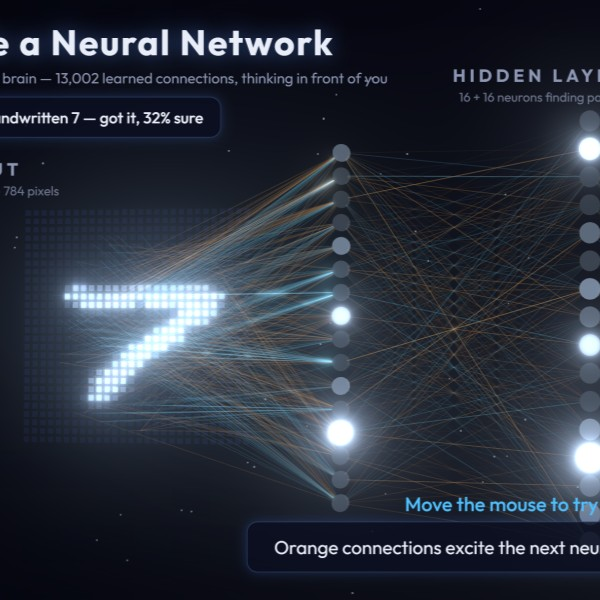
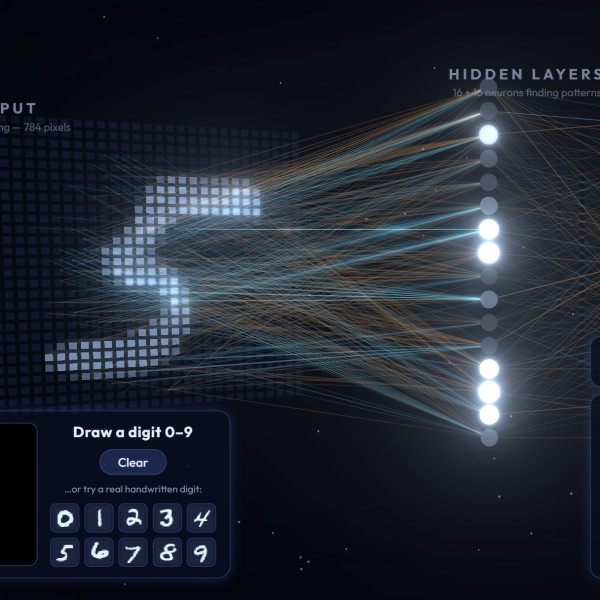
Wall-comfort pass: calmer brightness, smaller HUD, more breathing room
Peak luminance reduced across every emitter (bloom 0.85->0.55 with
higher threshold, neuron/pulse/flare/glyph/input-plane intensities all
lowered) so nothing blinds on the 2736px wall while color contrast and
motion stay. HUD typography and panels shrunk (~20%), interactive
camera pulled back, packaging art regenerated from the new look.

diff --git a/src/index.css b/src/index.css
@@ -100,25 +100,25 @@ body {
 
 .hud-title h1 {
   margin: 0;
-  font-size: 72px;
+  font-size: 56px;
   font-weight: 700;
   letter-spacing: 0.05em;
-  text-shadow: 0 0 40px rgba(90, 150, 255, 0.55);
+  text-shadow: 0 0 32px rgba(90, 150, 255, 0.45);
 }
 
 .hud-title p {
   margin: 8px 0 0;
-  font-size: 30px;
+  font-size: 26px;
   font-weight: 400;
   color: var(--ink-dim);
 }
 
 .hud-hint {
   position: absolute;
-  bottom: 170px;
+  bottom: 176px;
   left: 50%;
   transform: translateX(-50%);
-  font-size: 40px;
+  font-size: 32px;
   font-weight: 500;
   color: var(--cool);
   animation: hint-breathe 2.6s ease-in-out infinite;
@@ -139,13 +139,13 @@ body {
   bottom: 56px;
   left: 50%;
   transform: translateX(-50%);
-  max-width: 1500px;
-  padding: 26px 54px;
+  max-width: 1200px;
+  padding: 20px 44px;
   background: var(--panel);
   border: 2px solid var(--panel-border);
   border-radius: 22px;
   box-shadow: var(--glow);
-  font-size: 38px;
+  font-size: 30px;
   font-weight: 400;
   text-align: center;
   animation: card-in-centered 0.8s ease both;
@@ -198,25 +198,25 @@ body {
 }
 
 .zone-label__name {
-  font-size: 36px;
+  font-size: 30px;
   font-weight: 700;
   letter-spacing: 0.22em;
-  color: var(--ink-dim);
+  color: rgba(141, 151, 180, 0.85);
 }
 
 .zone-label__sub {
-  font-size: 26px;
+  font-size: 22px;
   font-weight: 400;
-  color: rgba(141, 151, 180, 0.75);
+  color: rgba(141, 151, 180, 0.6);
 }
 
 .hud-legend {
   position: absolute;
-  top: 48px;
+  top: 44px;
   right: 56px;
   display: flex;
-  gap: 36px;
-  font-size: 30px;
+  gap: 30px;
+  font-size: 26px;
   font-weight: 500;
 }
 
@@ -239,8 +239,8 @@ body {
   display: flex;
   flex-direction: row;
   align-items: center;
-  gap: 30px;
-  padding: 26px 34px;
+  gap: 26px;
+  padding: 22px 28px;
   background: var(--panel);
   border: 2px solid var(--panel-border);
   border-radius: 26px;
@@ -256,14 +256,14 @@ body {
 }
 
 .hud-panel__title {
-  font-size: 38px;
+  font-size: 30px;
   font-weight: 700;
   letter-spacing: 0.03em;
 }
 
 .draw-pad {
-  width: 330px;
-  height: 330px;
+  width: 290px;
+  height: 290px;
   border-radius: 18px;
   border: 2px solid rgba(120, 160, 255, 0.45);
   background: #000;
@@ -278,10 +278,10 @@ body {
 
 .hud-panel__clear {
   font-family: inherit;
-  font-size: 30px;
+  font-size: 25px;
   font-weight: 500;
   color: var(--ink);
-  padding: 12px 44px;
+  padding: 9px 36px;
   background: rgba(50, 70, 130, 0.45);
   border: 2px solid var(--panel-border);
   border-radius: 999px;
@@ -298,7 +298,7 @@ body {
 }
 
 .hud-panel__try {
-  font-size: 24px;
+  font-size: 20px;
   color: var(--ink-dim);
 }
 
@@ -327,8 +327,8 @@ body {
 
 .sample-strip__thumb {
   display: block;
-  width: 56px;
-  height: 56px;
+  width: 48px;
+  height: 48px;
   image-rendering: pixelated;
   border-radius: 6px;
 }
@@ -339,20 +339,20 @@ body {
   /* Bottom-center band, clear of both the draw panel (left) and the 3D
      output column (right edge). */
   position: absolute;
-  right: 720px;
+  right: 760px;
   bottom: 44px;
-  width: 560px;
+  width: 480px;
   display: flex;
   flex-direction: column;
-  gap: 18px;
+  gap: 14px;
   pointer-events: none;
 }
 
 .output-bars {
   display: flex;
   flex-direction: column;
-  gap: 7px;
-  padding: 22px 28px;
+  gap: 6px;
+  padding: 18px 24px;
   background: var(--panel);
   border: 2px solid var(--panel-border);
   border-radius: 22px;
@@ -361,10 +361,10 @@ body {
 
 .output-bar {
   display: grid;
-  grid-template-columns: 40px 1fr 84px;
+  grid-template-columns: 34px 1fr 72px;
   align-items: center;
-  gap: 14px;
-  font-size: 26px;
+  gap: 12px;
+  font-size: 22px;
   font-weight: 500;
 }
 
@@ -380,7 +380,7 @@ body {
 }
 
 .output-bar__track {
-  height: 18px;
+  height: 14px;
   border-radius: 999px;
   background: rgba(40, 52, 96, 0.55);
   overflow: hidden;
@@ -405,12 +405,12 @@ body {
 }
 
 .hud-verdict {
-  padding: 20px 34px;
+  padding: 16px 30px;
   background: var(--panel);
   border: 2px solid var(--panel-border);
   border-radius: 22px;
   box-shadow: var(--glow);
-  font-size: 32px;
+  font-size: 27px;
   font-weight: 500;
   text-align: center;
   animation: card-in 0.5s ease both;
@@ -418,10 +418,10 @@ body {
 
 .hud-verdict--attract {
   position: absolute;
-  top: 196px;
+  top: 164px;
   left: 64px;
   white-space: nowrap;
-  font-size: 32px;
+  font-size: 27px;
   animation: card-in 0.5s ease both;
   transform: none;
 }

diff --git a/src/scene/SceneManager.ts b/src/scene/SceneManager.ts
@@ -92,10 +92,10 @@ export function createScene(
           // Perceptual curve: keep weak activations visibly dimmer than
           // strong ones instead of letting bloom crush everything to white.
           const level = Math.pow(normalized[layer][i], 1.6);
-          brightness += reveal * level * 1.45;
+          brightness += reveal * level * 1.05;
           scale = neuronPop(tSinceFire, layer, i, count) * (1 + 0.22 * level * reveal);
           if (layer === 2 && i === fireResult.argmax) {
-            brightness += 0.65 * flareEnv;
+            brightness += 0.4 * flareEnv;
             scale += 0.3 * flareEnv;
             warmth = Math.max(flareEnv, 0.4 * reveal * level);
           }
@@ -131,7 +131,7 @@ export function createScene(
     const outputReveal = fireResult ? neuronReveal(tSinceFire, 2, 0, 1) : 0;
     glyphs.update(fireResult ? fireResult.probs : null, Math.max(outputReveal, fireResult ? 0.35 : 0.2), fireResult?.argmax ?? 0, flareEnv);
     flare.update(flareEnv, camera);
-    post.bloom.strength = BLOOM_BASE_STRENGTH + 0.18 * flareEnv;
+    post.bloom.strength = BLOOM_BASE_STRENGTH + 0.12 * flareEnv;
 
     post.render();
   }

diff --git a/src/scene/PulseSystem.ts b/src/scene/PulseSystem.ts
@@ -76,7 +76,7 @@ export class PulseSystem {
         uStageDur: { value: new THREE.Vector3(...FIRE.stageDur) },
         // Stage 0 fires 3× the particles of the deeper stages from one small
         // region — without damping it novas out and hides the digit.
-        uStageAlpha: { value: new THREE.Vector3(0.4, 0.85, 1.0) },
+        uStageAlpha: { value: new THREE.Vector3(0.35, 0.7, 0.85) },
         uStageSize: { value: new THREE.Vector3(0.55, 0.9, 1.0) },
       },
       vertexShader: /* glsl */ `
@@ -108,7 +108,7 @@ export class PulseSystem {
           vAlpha = visible * fade * (0.25 + 0.75 * mag) * dot(aStageMask, uStageAlpha);
           vec3 warm = vec3(1.0, 0.62, 0.22);
           vec3 cool = vec3(0.30, 0.75, 1.0);
-          vColor = (aSignal >= 0.0 ? warm : cool) * (0.6 + 2.6 * mag);
+          vColor = (aSignal >= 0.0 ? warm : cool) * (0.45 + 1.7 * mag);
           gl_PointSize = visible * (20.0 + 46.0 * mag) * dot(aStageMask, uStageSize) * (24.0 / max(1.0, -mvPosition.z));
         }
       `,

diff --git a/src/scene/InputPlane.ts b/src/scene/InputPlane.ts
@@ -43,9 +43,9 @@ export class InputPlane {
         const v = 0.06 + 0.94 * Math.pow(pixels[row * GRID + col], 0.8);
         // Peak stays below bloom saturation so the digit's shape survives
         // the glow instead of dissolving into a white blob.
-        const r = 8 + 140 * v;
-        const g = 12 + 162 * v;
-        const b = 35 + 172 * v;
+        const r = 8 + 118 * v;
+        const g = 12 + 138 * v;
+        const b = 35 + 150 * v;
         for (let cy = 0; cy < CELL; cy++) {
           for (let cx = 0; cx < CELL; cx++) {
             const seam = cy === CELL - 1 || cx === CELL - 1 ? 0.3 : 1;

diff --git a/src/scene/fire.ts b/src/scene/fire.ts
@@ -29,10 +29,10 @@ export function smoothstep(edge0: number, edge1: number, x: number): number {
 
 /** Input plane brightness: idle glow → quick bloom-up with a little overshoot. */
 export function inputRamp(t: number): number {
-  if (t < 0) return 1;
+  if (t < 0) return 0.9;
   const rise = smoothstep(0, 0.3, t);
-  const overshoot = 0.18 * Math.sin(Math.PI * clamp01(t / 0.6)) * rise;
-  return 0.6 + 0.4 * rise + overshoot;
+  const overshoot = 0.12 * Math.sin(Math.PI * clamp01(t / 0.6)) * rise;
+  return 0.55 + 0.35 * rise + overshoot;
 }
 
 /** Per-neuron reveal stagger cascades down the column. */

diff --git a/src/scene/postfx.ts b/src/scene/postfx.ts
@@ -11,7 +11,8 @@ export interface PostFx {
   dispose(): void;
 }
 
-export const BLOOM_BASE_STRENGTH = 0.85;
+/** Kept modest: on a 2736px-wide wall a strong bloom is physically blinding. */
+export const BLOOM_BASE_STRENGTH = 0.55;
 
 /**
  * HDR render → bloom → tone map/sRGB. The wall is 2736×1216 (~3.3 MP);
@@ -38,7 +39,7 @@ export function createPostFx(
     new THREE.Vector2(width / bloomScale, height / bloomScale),
     BLOOM_BASE_STRENGTH,
     0.4,
-    0.25
+    0.3
   );
   composer.addPass(bloom);
   composer.addPass(new OutputPass());

diff --git a/src/scene/OutputGlyphs.ts b/src/scene/OutputGlyphs.ts
@@ -45,9 +45,9 @@ export class OutputGlyphs {
       const isWinner = probs !== null && digit === winner;
       const glow = isWinner ? flare : 0;
       material.color.setRGB(
-        0.28 + 1.5 * lit + 1.6 * glow,
-        0.32 + 1.4 * lit + 1.5 * glow,
-        0.42 + 1.1 * lit + 1.2 * glow
+        0.28 + 1.0 * lit + 1.0 * glow,
+        0.32 + 0.95 * lit + 0.95 * glow,
+        0.42 + 0.75 * lit + 0.75 * glow
       );
       material.opacity = 0.5 + 0.5 * reveal;
       sprite.scale.setScalar(1.05 * (1 + 0.55 * glow + 0.35 * lit * reveal));

diff --git a/src/scene/CameraRig.ts b/src/scene/CameraRig.ts
@@ -19,7 +19,7 @@ export class CameraRig {
   private readonly smoothedTarget = new THREE.Vector3(0, 0, 0);
   // Framed so the network floats in the wall's upper band, clear of the
   // HUD panels along the bottom edge.
-  private readonly interactivePosition = new THREE.Vector3(-2, 0.6, 30.5);
+  private readonly interactivePosition = new THREE.Vector3(-2, 0.6, 32.5);
   private readonly interactiveTarget = new THREE.Vector3(-2, -1.4, 0);
 
   constructor(private readonly camera: THREE.PerspectiveCamera) {

diff --git a/src/scene/WinnerFlare.ts b/src/scene/WinnerFlare.ts
@@ -50,7 +50,7 @@ export class WinnerFlare {
     this.mesh.quaternion.copy(camera.quaternion);
     const scale = 1.2 + 2.6 * (1 - Math.pow(1 - envelope, 2));
     this.mesh.scale.setScalar(scale);
-    this.material.opacity = 0.5 * envelope;
+    this.material.opacity = 0.35 * envelope;
   }
 
   dispose(): void {
